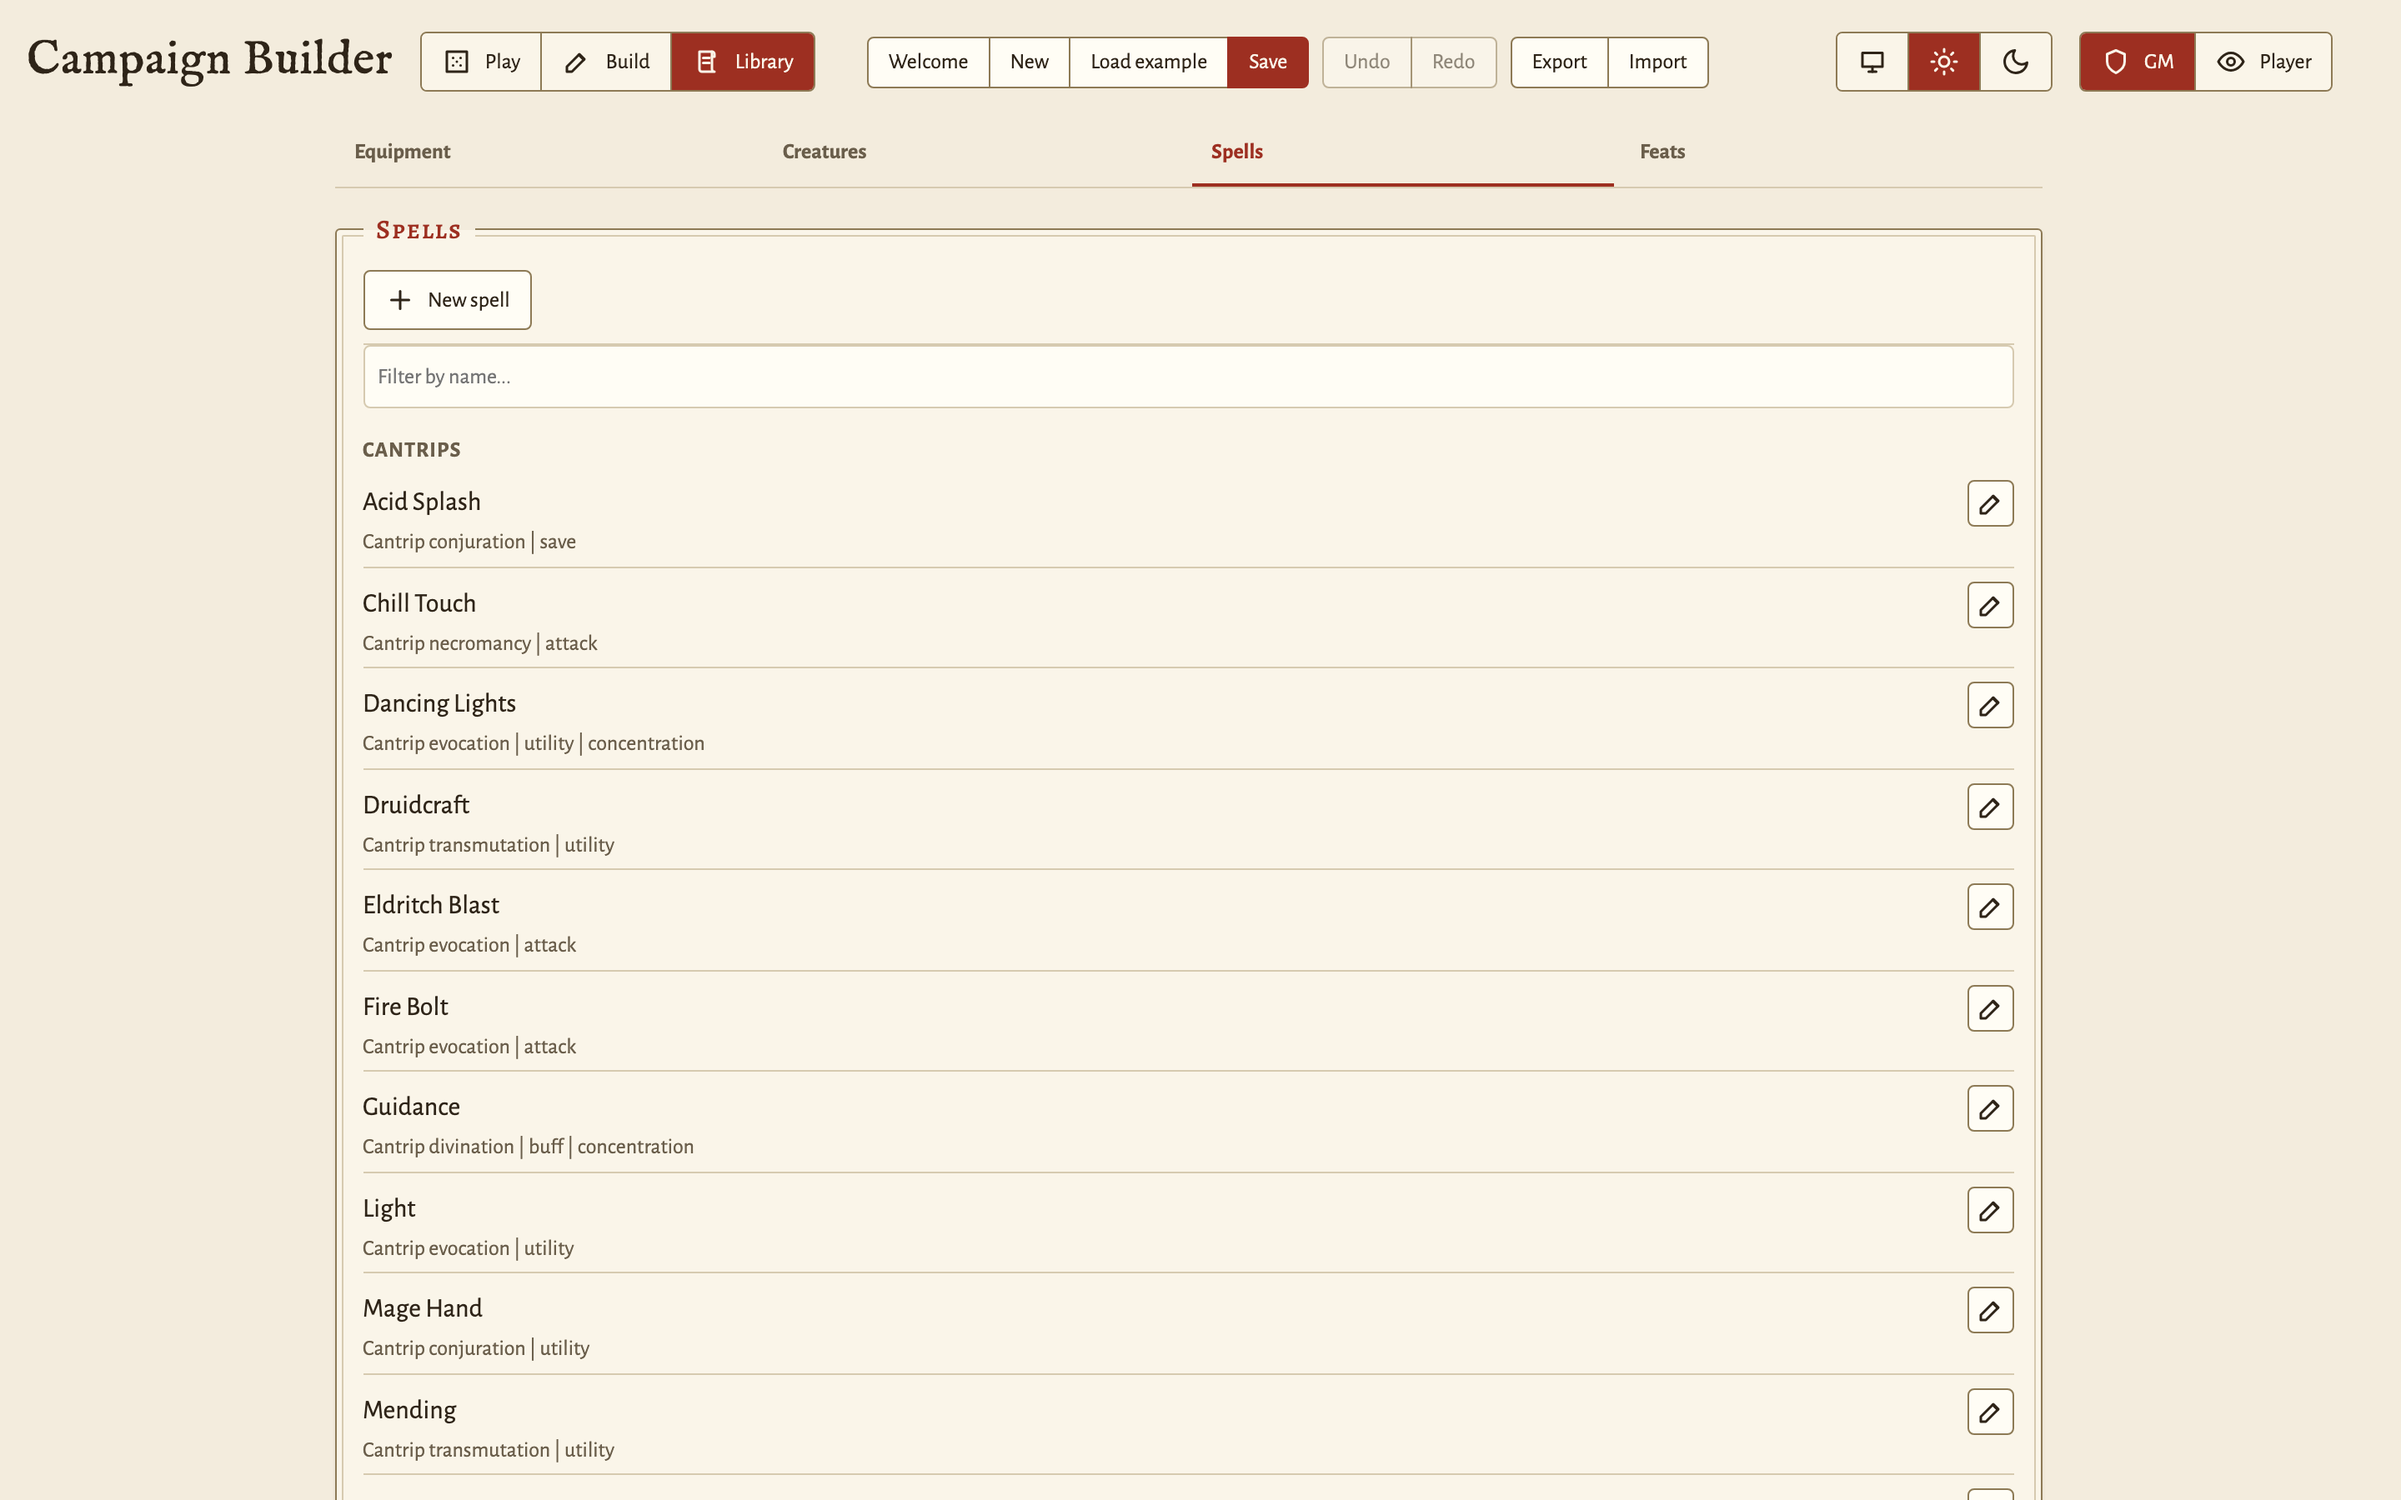
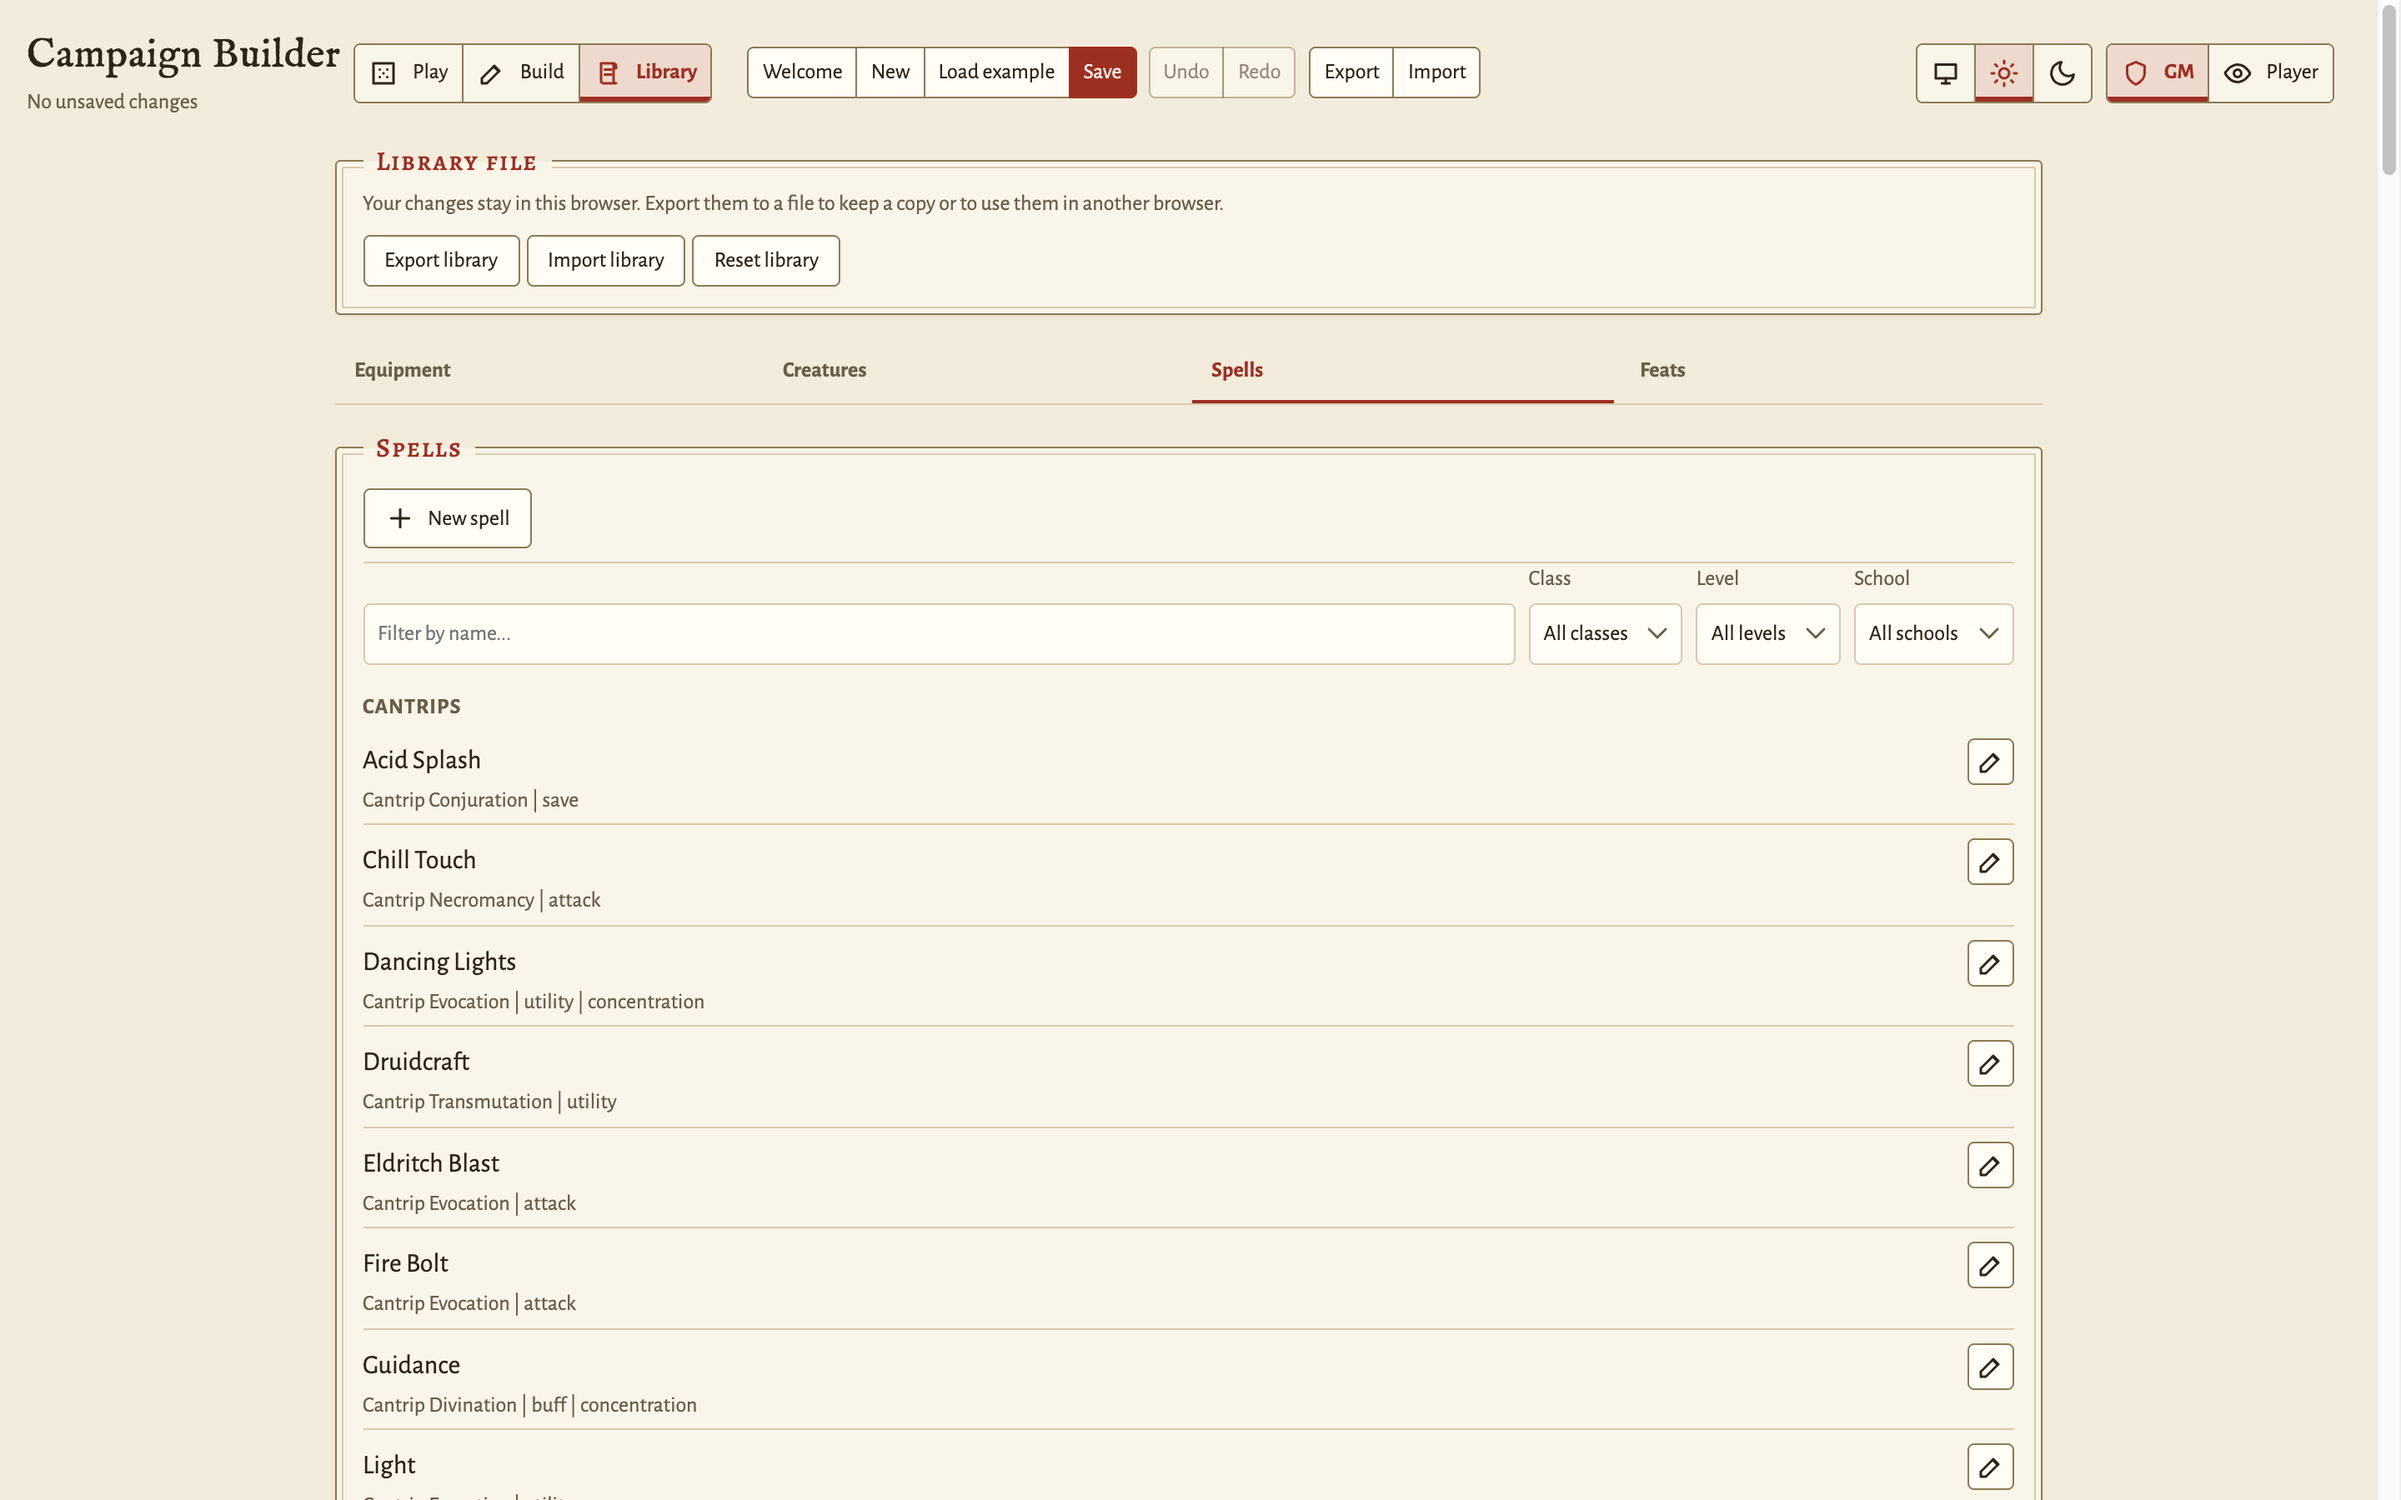
Retake the documentation screenshots from the current Play, combat, and Library layouts.
The seven images under docs/images showed the scrolling Play page, the combat screen without its Map tab and docked dice tray, and the Library without its file card at the top. They are captured again at 1440 by 900 (1600 by 900 for the combat screen) and a device scale of 2 in a fresh browser profile with the light theme selected, except the dark-theme shot. The play shots walk the party southwest of Briarwick and fit the map, and the dark shot opens the Sheet tab of Ser Aldric. The exits shot enters the town of Briarwick from the southwest, reveals it whole, and hides the sidebar so the mini-map sits beside the whole town. The combat shot starts the fight against the goblin scout beside the burned farmstead with one longsword attack by Ser Aldric in the log, and the Equipment shot has a customized Dagger.

The alt text of the light, dark, combat, and spells images in README.md, docs/index.md, and the GM guide names the party dock, the Sheet tab, the dice tray, and the spell filters, and the GM guide names the left dock and the Sheet tab in Run a session. Ser Aldric types an initiative of 16 in the combat setup so his turn comes before Mirelle's, and the attack roll is random, so this shot shows a miss where a retake can show a hit or the victory banner.

diff --git a/docs/gm-guide.md b/docs/gm-guide.md
@@ -322,10 +322,12 @@ each warning.
 
 ## Run a session
 
-Switch to **Play** mode. The sidebar has the **Session**, **Story**, and
-**Log** tabs. To give the map the full width, click **Hide panels**.
+Switch to **Play** mode. The **Party** panel and the dice tray are on the
+left of the map. The sidebar on the right has the **Session**, **Story**,
+**Log**, and **Sheet** tabs. To hide the sidebar and widen the map, click
+**Hide panels**.
 
-![Play mode: the fog-revealed map with the session panels alongside](images/play-mode-light.png)
+![Play mode: the party and the dice tray on the left, the fog-revealed map, and the Session tab on the right](images/play-mode-light.png)
 
 ### Move the party
 
@@ -484,7 +486,7 @@ still open stays until you end the fight. To bring the foes back, click
 6. Click **Start combat**. The app rolls for each row that you did not roll
    or type, and the combat screen replaces the map.
 
-![Combat: the full-width fight screen with the board, log, and turn ribbon](images/combat-screen.png)
+![Combat: the full-width fight screen with the turn ribbon, the board, the combat log, and the dice tray](images/combat-screen.png)
 
 7. Click a board card to make it the target. Click it again to clear the
    target.
@@ -857,7 +859,7 @@ fields as a built-in one, so you do not need to change any code.
 [Curated spells](spells-missing.md) says what the app can and cannot apply
 for you.
 
-![Library mode: the Spells tab, with the spells grouped by level and each row naming its school and effect kind](images/library-spells.png)
+![Library mode: the Spells tab, with filters for class, level, and school, and the spells grouped by level with the school and effect kind on each row](images/library-spells.png)
 
 1. In Library mode, open the **Spells** tab.
 2. Click **New spell**.
@@ -950,4 +952,4 @@ The browser downloads the map as a PNG image, for printing or for a virtual
 tabletop. The image ignores fog. A browser limits how large an image can
 be, so a large map comes out at a smaller tile size.
 
-![Play mode in the dark theme](images/play-mode-dark.png)
+![Play mode in the dark theme, with the character sheet of Ser Aldric in the Sheet tab](images/play-mode-dark.png)

diff --git a/README.md b/README.md
@@ -4,7 +4,7 @@ Campaign Builder is a browser app for building and running the world of a D&D ca
 
 The app runs entirely in one browser tab. It has no server and no account. It keeps each campaign in the local storage of the browser, and you move a campaign between browsers with a JSON export file.
 
-![Play mode: the fog-revealed map with the session panels alongside](docs/images/play-mode-light.png)
+![Play mode: the party and the dice tray on the left, the fog-revealed map, and the Session tab on the right](docs/images/play-mode-light.png)
 
 ## Quick start
 
@@ -98,9 +98,9 @@ The Player role hides GM information on the screen, but it is not a security con
 
 ![Build mode: world tree, editable map, and the paint palette](docs/images/build-mode.png)
 
-![Combat: the full-width fight screen with the board, log, and turn ribbon](docs/images/combat-screen.png)
+![Combat: the full-width fight screen with the turn ribbon, the board, the combat log, and the dice tray](docs/images/combat-screen.png)
 
-![Play mode in the dark theme](docs/images/play-mode-dark.png)
+![Play mode in the dark theme, with the character sheet of Ser Aldric in the Sheet tab](docs/images/play-mode-dark.png)
 
 ## Documentation for GMs
 

diff --git a/docs/index.md b/docs/index.md
@@ -6,7 +6,7 @@ The app runs entirely in one browser tab. It has no server and no account. It ke
 
 This site has the guides for GMs who run a campaign in the app, and for contributors who change its code. To try the app, open the [hosted build](https://cartographer.tbmh.org).
 
-![Play mode: the fog-revealed map with the session panels alongside](images/play-mode-light.png)
+![Play mode: the party and the dice tray on the left, the fog-revealed map, and the Session tab on the right](images/play-mode-light.png)
 
 ## Where to start
 
@@ -90,9 +90,9 @@ The Player role hides GM information on the screen, but it is not a security con
 
 ![Build mode: world tree, editable map, and the paint palette](images/build-mode.png)
 
-![Combat: the full-width fight screen with the board, log, and turn ribbon](images/combat-screen.png)
+![Combat: the full-width fight screen with the turn ribbon, the board, the combat log, and the dice tray](images/combat-screen.png)
 
-![Play mode in the dark theme](images/play-mode-dark.png)
+![Play mode in the dark theme, with the character sheet of Ser Aldric in the Sheet tab](images/play-mode-dark.png)
 
 ## Local setup
 
